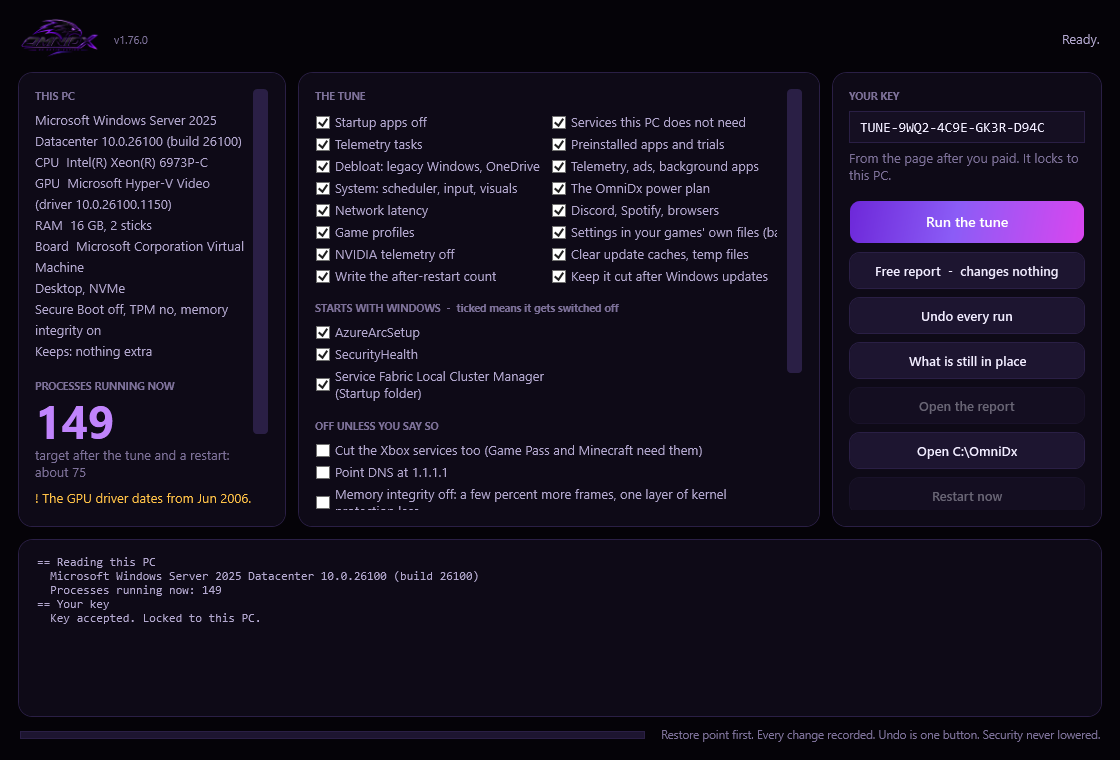
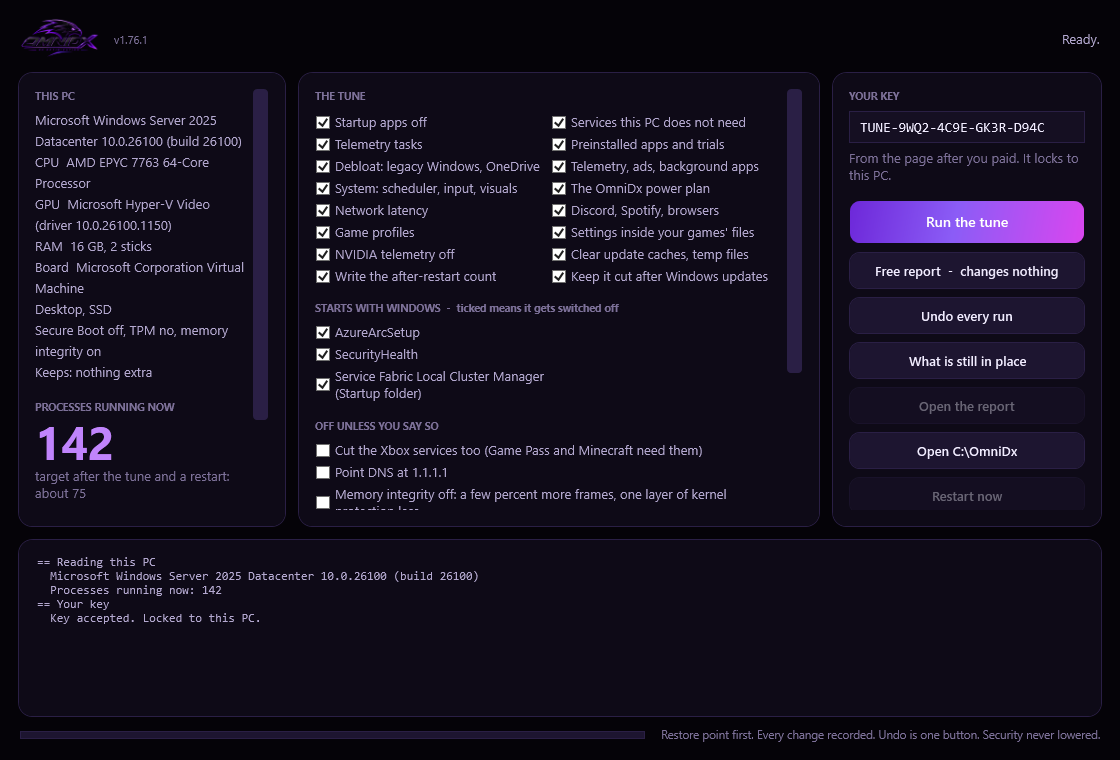
Windows check: the app window, the numbers, the log, and the script this run verified

Changed region(s): [[0.0312, 0.2118, 0.2188, 0.6658], [0.5625, 0.3026, 0.6875, 0.3329], [0.2188, 0.5447, 0.25, 0.575]]

diff --git a/studio/assets/ci-report.html b/studio/assets/ci-report.html
@@ -1,5 +1,5 @@
 <!doctype html><html lang="en"><head><meta charset="utf-8"><meta name="viewport" content="width=device-width,initial-scale=1">
-<title>OmniDx Tune report - 2026-09-24_21-17-41</title>
+<title>OmniDx Tune report - 2026-09-24_21-27-25</title>
 <style>
 body{margin:0;background:#050308;color:#f1ecff;font:15px/1.6 -apple-system,'Segoe UI',Roboto,system-ui,sans-serif}
 main{max-width:860px;margin:0 auto;padding:36px 20px 80px}
@@ -17,26 +17,24 @@ details{margin:10px 0;background:#0e0a17;border:1px solid #2a1f45;border-radius:
 details pre{font:12.5px/1.5 ui-monospace,Consolas,monospace;color:#b3a8cf;overflow:auto;max-height:420px;margin:10px 0 4px}
 .bios ul{list-style:none;padding-left:2px}.bios li{margin:8px 0;color:#f1ecff}.bios{background:#0e0a17;border:1px solid #2a1f45;border-radius:14px;padding:6px 18px}
 </style></head><body><main>
-<h1><img src="https://omnidx.net/studio/assets/icons/icon-192.png" alt="" width="44" height="44" style="vertical-align:middle;margin-right:10px" onerror="this.remove()">OmniDx Tune <span class="muted" style="font-size:16px">v1.76.0</span></h1>
-<p class="sub">Thursday, September 24, 2026 9:19 PM &middot; Intel(R) Xeon(R) 6973P-C &middot; Microsoft Hyper-V Video &middot; 16 GB &middot; Microsoft Corporation Virtual Machine</p>
-<div class="big"><div><b>150</b><span>processes before</span></div><div><b>141</b><span>now, before a restart</span></div><div><b>~75</b><span>target for this PC after a restart</span></div></div>
+<h1><img src="https://omnidx.net/studio/assets/icons/icon-192.png" alt="" width="44" height="44" style="vertical-align:middle;margin-right:10px" onerror="this.remove()">OmniDx Tune <span class="muted" style="font-size:16px">v1.76.1</span></h1>
+<p class="sub">Thursday, September 24, 2026 9:28 PM &middot; AMD EPYC 7763 64-Core Processor &middot; Microsoft Hyper-V Video &middot; 16 GB &middot; Microsoft Corporation Virtual Machine</p>
+<div class="big"><div><b>143</b><span>processes before</span></div><div><b>138</b><span>now, before a restart</span></div><div><b>~75</b><span>target for this PC after a restart</span></div></div>
 <p class='muted'>The card, for posting (the same numbers, on one picture): <code>ci-card.png</code></p><img src='ci-card.png' alt='Before and after, on a card' style='max-width:340px;width:100%;border-radius:14px;border:1px solid #2a1f45'>
 <p class="muted">Many of the "now" processes are only waiting to be stopped. The number after a restart is the one that counts; <code>C:\OmniDx\after-restart.txt</code> gets it at your next sign-in. Kept cut: a task at each sign-in puts back what a Windows update turns on; undo removes it.</p>
 <h2>Next steps</h2><ol><li>Restart. The services told to stop are still unwinding until you do, and the after-restart count lands in C:\OmniDx\after-restart.txt at your next sign-in, with the boot time of that start next to the one from before the tune.</li><li>BIOS: items 1 to 3 (memory profile, Re-Size BAR, CSM). Ten minutes, and the memory profile alone is the biggest free gain any PC has.</li><li>GPU control panel: low latency mode, power management and V-Sync, from the list below. Two minutes.</li><li>Launchers and overlays: the list below names the one or two settings in each that matter; the overlays are the usual cause of a stutter that &quot;came from nowhere&quot;.</li><li>Any time: $env:OMNIDX_MODE=&#39;status&#39;; irm omnidx.net/go.ps1 | iex shows what is still in place; undo is one line, and it is in this report.</li></ol>
-<h2>Before and after</h2><table><tr><th></th><th>Before</th><th>Now</th></tr><tr><td>Processes</td><td>150</td><td>141</td></tr><tr><td>Threads</td><td>1448</td><td>1359</td></tr><tr><td>Handles</td><td>50754</td><td>47949</td></tr><tr><td>Memory in use</td><td>3003 MB</td><td>3137 MB</td></tr><tr><td>Idle CPU</td><td>0.6%</td><td>1.3%</td></tr><tr><td>DPC time</td><td>0%</td><td>0%</td></tr></table>
-<h2>Gone, by name</h2><p class='muted'>Running before, not running now: rundll32, spoolsv, VSSVC</p>
-<details><summary>Every process, before (59 names)</summary><pre>svchost                                  x79     1,221 MB
+<h2>Before and after</h2><table><tr><th></th><th>Before</th><th>Now</th></tr><tr><td>Processes</td><td>143</td><td>138</td></tr><tr><td>Threads</td><td>1424</td><td>1483</td></tr><tr><td>Handles</td><td>49216</td><td>47532</td></tr><tr><td>Memory in use</td><td>2903 MB</td><td>3155 MB</td></tr><tr><td>Idle CPU</td><td>1.1%</td><td>2.4%</td></tr><tr><td>DPC time</td><td>0%</td><td>0.2%</td></tr></table>
+<h2>Gone, by name</h2><p class='muted'>Running before, not running now: spoolsv</p>
+<details><summary>Every process, before (54 names)</summary><pre>svchost                                  x78     1,188 MB
 conhost                                  x4         34 MB
-notepad                                  x3         85 MB
-taskhostw                                x3         95 MB
-WmiPrvSE                                 x3         68 MB
-backgroundTaskHost                       x2         31 MB
+notepad                                  x3         88 MB
+taskhostw                                x3         93 MB
+WmiPrvSE                                 x3         72 MB
 csrss                                    x2         14 MB
 fontdrvhost                              x2         11 MB
 SMSvcHost                                x2         50 MB
 AzureArcSysTray                          x1         20 MB
 ctfmon                                   x1         31 MB
-DefenderSessionHelper                    x1          6 MB
 dockerd                                  x1         46 MB
 dwm                                      x1         78 MB
 explorer                                 x1        159 MB
@@ -44,34 +42,87 @@ hosted-compute-agent                     x1         17 MB
 Idle                                     x1          0 MB
 LsaIso                                   x1          4 MB
 lsass                                    x1         31 MB
-MpDefenderCoreService                    x1         29 MB
+MpDefenderCoreService                    x1         30 MB
 mqsvc                                    x1         19 MB
 msdtc                                    x1         14 MB
-MsMpEng                                  x1        174 MB
-node                                     x1         41 MB
+MsMpEng                                  x1         77 MB
+node                                     x1         40 MB
 OpenConsole                              x1         14 MB
-powershell                               x1        241 MB
-provjobd.exe4278505647                   x1         20 MB
-Registry                                 x1         26 MB
-rundll32                                 x1         10 MB
-Runner.Listener                          x1         54 MB
-Runner.Worker                            x1        140 MB
-RuntimeBroker                            x1         48 MB
-SearchHost                               x1        110 MB
+powershell                               x1        163 MB
+provjobd.exe155265105                    x1         19 MB
+Registry                                 x1         50 MB
+Runner.Listener                          x1         71 MB
+Runner.Worker                            x1        104 MB
+RuntimeBroker                            x1         47 MB
+SearchHost                               x1        109 MB
 Secure System                            x1         52 MB
-SecurityHealthService                    x1         28 MB
+SecurityHealthService                    x1         12 MB
 ServiceFabricLocalClusterManager         x1         36 MB
 services                                 x1         12 MB
 ShellHost                                x1         42 MB
-sihost                                   x1         43 MB
-smartscreen                              x1         13 MB
+sihost                                   x1         42 MB
 smss                                     x1          2 MB
 spoolsv                                  x1         22 MB
 sqlwriter                                x1         11 MB
 sshd                                     x1          9 MB
 StartMenuExperienceHost                  x1        130 MB
 System                                   x1          0 MB
-SystemPropertiesPerformance              x1         14 MB
+TiWorker                                 x1         33 MB
+TrustedInstaller                         x1         10 MB
+UserOOBEBroker                           x1         11 MB
+vmcompute                                x1         11 MB
+vmms                                     x1         34 MB
+WaAppAgent                               x1         86 MB
+WaSecAgentProv                           x1          5 MB
+WindowsAzureGuestAgent                   x1         70 MB
+WindowsTerminal                          x1         85 MB
+wininit                                  x1          9 MB
+winlogon                                 x1         13 MB
+wslservice                               x1         29 MB</pre></details><details><summary>Every process, after (56 names)</summary><pre>svchost                                  x71     1,055 MB
+conhost                                  x4         34 MB
+notepad                                  x3         86 MB
+taskhostw                                x3         92 MB
+WmiPrvSE                                 x3         79 MB
+csrss                                    x2         14 MB
+fontdrvhost                              x2         11 MB
+SMSvcHost                                x2         50 MB
+AzureArcSysTray                          x1         20 MB
+ctfmon                                   x1         31 MB
+dllhost                                  x1         13 MB
+dockerd                                  x1         46 MB
+dwm                                      x1         78 MB
+explorer                                 x1        159 MB
+hosted-compute-agent                     x1         16 MB
+Idle                                     x1          0 MB
+LsaIso                                   x1          4 MB
+lsass                                    x1         31 MB
+MpDefenderCoreService                    x1         30 MB
+mqsvc                                    x1         19 MB
+msdtc                                    x1         14 MB
+MsMpEng                                  x1         78 MB
+node                                     x1         39 MB
+OpenConsole                              x1         14 MB
+powershell                               x1        216 MB
+provjobd.exe155265105                    x1         21 MB
+Registry                                 x1         66 MB
+Runner.Listener                          x1         58 MB
+Runner.Worker                            x1         94 MB
+RuntimeBroker                            x1         47 MB
+SearchHost                               x1        109 MB
+Secure System                            x1         52 MB
+SecurityHealthService                    x1         21 MB
+ServiceFabricLocalClusterManager         x1         36 MB
+services                                 x1         11 MB
+ShellHost                                x1         42 MB
+sihost                                   x1         42 MB
+smartscreen                              x1         13 MB
+smss                                     x1          2 MB
+sqlwriter                                x1         11 MB
+sshd                                     x1          9 MB
+StartMenuExperienceHost                  x1        131 MB
+System                                   x1          0 MB
+TiWorker                                 x1         42 MB
+TrustedInstaller                         x1         10 MB
 UserOOBEBroker                           x1         11 MB
 vmcompute                                x1         11 MB
 vmms                                     x1         34 MB
@@ -82,76 +133,17 @@ WindowsAzureGuestAgent                   x1         70 MB
 WindowsTerminal                          x1         85 MB
 wininit                                  x1          9 MB
 winlogon                                 x1         13 MB
-wslservice                               x1         27 MB
-WUDFHost                                 x1         12 MB</pre></details><details><summary>Every process, after (59 names)</summary><pre>svchost                                  x70     1,060 MB
-conhost                                  x4         34 MB
-notepad                                  x3         47 MB
-taskhostw                                x3         95 MB
-WmiPrvSE                                 x3         70 MB
-backgroundTaskHost                       x2         31 MB
-csrss                                    x2         14 MB
-fontdrvhost                              x2         11 MB
-SMSvcHost                                x2         50 MB
-AzureArcSysTray                          x1         20 MB
-ctfmon                                   x1         31 MB
-DefenderSessionHelper                    x1          6 MB
-dllhost                                  x1         13 MB
-dockerd                                  x1         46 MB
-dwm                                      x1         78 MB
-explorer                                 x1        159 MB
-hosted-compute-agent                     x1         16 MB
-Idle                                     x1          0 MB
-LsaIso                                   x1          4 MB
-lsass                                    x1         31 MB
-MpDefenderCoreService                    x1         29 MB
-mqsvc                                    x1         19 MB
-msdtc                                    x1         14 MB
-MsMpEng                                  x1         97 MB
-node                                     x1         38 MB
-OpenConsole                              x1         14 MB
-powershell                               x1        271 MB
-provjobd.exe4278505647                   x1         20 MB
-Registry                                 x1        106 MB
-Runner.Listener                          x1         33 MB
-Runner.Worker                            x1         91 MB
-RuntimeBroker                            x1         47 MB
-SearchHost                               x1        110 MB
-Secure System                            x1         52 MB
-SecurityHealthService                    x1         28 MB
-ServiceFabricLocalClusterManager         x1         36 MB
-services                                 x1         12 MB
-ShellHost                                x1         42 MB
-sihost                                   x1         43 MB
-smartscreen                              x1         13 MB
-smss                                     x1          2 MB
-sqlwriter                                x1         11 MB
-sshd                                     x1          9 MB
-StartMenuExperienceHost                  x1        131 MB
-System                                   x1          0 MB
-SystemPropertiesPerformance              x1         14 MB
-TiWorker                                 x1         39 MB
-TrustedInstaller                         x1         10 MB
-UserOOBEBroker                           x1         11 MB
-vmcompute                                x1         11 MB
-vmms                                     x1         34 MB
-WaAppAgent                               x1         87 MB
-WaSecAgentProv                           x1          5 MB
-WindowsAzureGuestAgent                   x1         70 MB
-WindowsTerminal                          x1         85 MB
-wininit                                  x1          9 MB
-winlogon                                 x1         13 MB
-wslservice                               x1         27 MB
-WUDFHost                                 x1         12 MB</pre></details>
+wslservice                               x1         29 MB</pre></details>
 <h2>Kept, and why</h2><ul><li>Defender, the firewall, Windows Update, audio, networking: always</li><li>Themes: Windows 10 falls back to the classic look without it</li><li>vmicguestinterface: this is a virtual machine</li><li>vmicheartbeat: this is a virtual machine</li><li>vmickvpexchange: this is a virtual machine</li><li>vmicrdv: this is a virtual machine</li><li>vmicshutdown: this is a virtual machine</li><li>vmictimesync: this is a virtual machine</li><li>vmicvmsession: this is a virtual machine</li><li>vmicvss: this is a virtual machine</li><li>XblAuthManager: Game Pass, the Xbox app or Minecraft is installed</li></ul>
 <h2>Warnings (3)</h2><div class="warn"><ul><li>The GPU driver dates from Jun 2006. A current driver is worth more than most tweaks.</li><li>This looks like a virtual machine. The tune will run, but the numbers mean little here.</li><li>Could not make a restore point (This functionality is not supported on this operating system.). The undo script still records everything.</li></ul></div>
-<h2>BIOS checklist for Microsoft Corporation Virtual Machine</h2><div class="bios"><ul><li>How to get in: restart, then press Del or F2 while the logo shows.</li><li>Where things are: the Advanced / Overclocking pages for memory, the PCI or Chipset page for Above 4G / Re-Size BAR, the Boot page for CSM, the Security page for TPM and Secure Boot.</li><li>1. Memory profile: enable XMP. Your RAM is running at the slow default until you do; this is the single biggest free gain on any PC. Pick the profile matching the speed printed on the sticks.</li><li>2. Re-Size BAR / Smart Access Memory: set Above 4G Decoding = Enabled, then Re-Size BAR Support = Auto/Enabled. Needs CSM off (next line). Worth 5-15% in many games on RTX 30/40/50 and RX 6000+.</li><li>3. CSM (Compatibility Support Module): Disabled. You already boot UEFI, so nothing depends on it, and Re-Size BAR needs it off.</li><li>4. Secure Boot: Enabled. Windows 11 and Vanguard expect it; on 10 it costs nothing. Set OS Type / Secure Boot Mode to Windows UEFI if asked.</li><li>5. TPM: not detected. Enable AMD fTPM (AMD) or Intel PTT (Intel) under Security / Trusted Computing. VALORANT on Windows 11 will not run without it.</li><li>6. Intel: leave MultiCore Enhancement at Auto; set the long and short power limits (PL1/PL2) to the chip&#39;s rated maximum if the board runs them lower. Do not touch voltages.</li><li>7. Global C-states / package C-states: Auto is fine. Disabling them buys nothing measurable in games and raises idle heat.</li><li>8. Fast Boot: Enabled. Full Screen Logo / Boot Logo: Disabled (a second off every boot).</li><li>9. Fan curves: set the CPU fan to reach 100% by 80 C and the case fans to a steady ramp. Sustained boost needs airflow more than anything.</li><li>10. Onboard devices you do not use: serial port, Wi-Fi/Bluetooth if wired, onboard audio if you use USB audio, RGB controllers. Each one removed is an interrupt source gone.</li><li>11. HPET: leave at default. The &#39;disable HPET&#39; tweak is from 2013 and hurts more than it helps on modern Windows.</li><li>12. Virtualisation (SVM / VT-x): leave on if you use WSL, Docker, an emulator, or play VALORANT or on FACEIT (their anti-cheat needs it, with IOMMU); otherwise off saves a little scheduling overhead.</li><li>After saving: Windows will boot normally. If it does not (rare, usually CSM), go back in and re-enable the last thing you changed.</li><li>Do not update the BIOS unless the vendor&#39;s notes mention a fix for your exact problem; a failed flash is the one thing here that cannot be undone from Windows.</li></ul></div>
+<h2>BIOS checklist for Microsoft Corporation Virtual Machine</h2><div class="bios"><ul><li>How to get in: restart, then press Del or F2 while the logo shows.</li><li>Where things are: the Advanced / Overclocking pages for memory, the PCI or Chipset page for Above 4G / Re-Size BAR, the Boot page for CSM, the Security page for TPM and Secure Boot.</li><li>1. Memory profile: enable EXPO (or DOCP / A-XMP on older boards). Your RAM is running at the slow default until you do; this is the single biggest free gain on any PC. Pick the profile matching the speed printed on the sticks.</li><li>2. Re-Size BAR / Smart Access Memory: set Above 4G Decoding = Enabled, then Re-Size BAR Support = Auto/Enabled. Needs CSM off (next line). Worth 5-15% in many games on RTX 30/40/50 and RX 6000+.</li><li>3. CSM (Compatibility Support Module): Disabled. You already boot UEFI, so nothing depends on it, and Re-Size BAR needs it off.</li><li>4. Secure Boot: Enabled. Windows 11 and Vanguard expect it; on 10 it costs nothing. Set OS Type / Secure Boot Mode to Windows UEFI if asked.</li><li>5. TPM: not detected. Enable AMD fTPM (AMD) or Intel PTT (Intel) under Security / Trusted Computing. VALORANT on Windows 11 will not run without it.</li><li>6. Precision Boost Overdrive: Enabled (or Advanced with the Curve Optimizer at a modest negative offset like -15 all-core if you know your cooler). Never a positive voltage offset.</li><li>7. Global C-states / package C-states: Auto is fine. Disabling them buys nothing measurable in games and raises idle heat.</li><li>8. Fast Boot: Enabled. Full Screen Logo / Boot Logo: Disabled (a second off every boot).</li><li>9. Fan curves: set the CPU fan to reach 100% by 80 C and the case fans to a steady ramp. Sustained boost needs airflow more than anything.</li><li>10. Onboard devices you do not use: serial port, Wi-Fi/Bluetooth if wired, onboard audio if you use USB audio, RGB controllers. Each one removed is an interrupt source gone.</li><li>11. HPET: leave at default. The &#39;disable HPET&#39; tweak is from 2013 and hurts more than it helps on modern Windows.</li><li>12. Virtualisation (SVM / VT-x): leave on if you use WSL, Docker, an emulator, or play VALORANT or on FACEIT (their anti-cheat needs it, with IOMMU); otherwise off saves a little scheduling overhead.</li><li>After saving: Windows will boot normally. If it does not (rare, usually CSM), go back in and re-enable the last thing you changed.</li><li>Do not update the BIOS unless the vendor&#39;s notes mention a fix for your exact problem; a failed flash is the one thing here that cannot be undone from Windows.</li></ul></div>
 <h2>GPU control panel</h2><ul><li>GPU not identified; use the vendor control panel to set low-latency mode on, power management to maximum performance and V-Sync off.</li></ul>
-<h2>Undervolt, not overclock, and a frame cap</h2><ul><li>GPU: the vendor tool has a frame limiter; set it three below the refresh rate with adaptive sync on.</li><li>CPU (Intel): on 13th and 14th gen, install the latest BIOS first (the microcode that stops the degradation), and leave the voltage alone unless the board exposes an offset; on a K chip a small negative offset is the same idea as Ryzen&#39;s Curve Optimizer.</li><li>Never an overclock: it is more heat and more voltage for frames you cannot see, and it is the first thing a crash report points at.</li></ul>
+<h2>Undervolt, not overclock, and a frame cap</h2><ul><li>GPU: the vendor tool has a frame limiter; set it three below the refresh rate with adaptive sync on.</li><li>CPU undervolt (Ryzen): BIOS &gt; PBO &gt; Curve Optimizer &gt; all cores, negative 15 to start (negative 30 on most 7000 and 9000 chips), then an hour of a game and a stress test; one step back on any crash or reboot. Lower temperature, higher sustained boost, nothing else changes.</li><li>Never an overclock: it is more heat and more voltage for frames you cannot see, and it is the first thing a crash report points at.</li></ul>
 <h2>Launchers, overlays and helper apps</h2><ul><li>Xbox app: Settings &gt; General &gt; &quot;Auto-start&quot; off (the entry the tune switched off), &quot;Show notifications&quot; off. Game Pass games install under C:\XboxGames and are already in the CPU-priority list where the game is listed.</li></ul>
 <h2>Left by other tools</h2><p class="muted">The tune changes none of these; it names them, with the way back.</p><ul><li>Nothing found: no other tool has left Defender, Windows Update, SmartScreen, User Account Control or the CPU mitigations switched off on this PC.</li></ul>
 <h2>Per game</h2><p class='muted'>Not found on this PC (the same profile applies if you install them): Fortnite, VALORANT, Counter-Strike 2, Marvel Rivals, Apex Legends, Call of Duty (Warzone / MW), Overwatch 2, Rainbow Six Siege, Rocket League, Minecraft, Roblox, League of Legends, GTA V / Online, Rust, Escape from Tarkov, PUBG, The Finals, Dota 2, Battlefield 6, Deadlock, Delta Force, ARC Raiders, Helldivers 2, Warframe, Destiny 2, Halo Infinite, Dead by Daylight, Hunt: Showdown 1896, War Thunder, World of Warcraft, Squad, Battlefield 2042, EA Sports FC 26, NBA 2K26, Palworld, Path of Exile 2, Diablo IV, Monster Hunter Wilds, Elden Ring / Nightreign, Cyberpunk 2077, Baldur&#39;s Gate 3, Star Citizen, DayZ, Arma Reforger, Hell Let Loose, Genshin Impact, Ready or Not, Final Fantasy XIV, STALKER 2, Sea of Thieves</p>
-<h2>What was done</h2><h4>Safety first</h4><div class='did'>Registry and service list backed up to C:\OmniDx\backup\2026-09-24_21-17-41</div><div class='did'>undo.ps1 written to C:\OmniDx\undo</div><h4>Startup apps</h4><div class='did'>off: AzureArcSetup</div><div class='did'>off: Service Fabric Local Cluster Manager (Startup folder)</div><h4>Services</h4><div class='did'>dmwappushservice -&gt; disabled  (telemetry push)</div><div class='did'>WerSvc -&gt; disabled  (error reporting)</div><div class='did'>wercplsupport -&gt; disabled  (error reporting)</div><div class='did'>PcaSvc -&gt; disabled  (compatibility assistant)</div><div class='did'>lfsvc -&gt; disabled  (geolocation)</div><div class='did'>RemoteRegistry -&gt; disabled  (remote registry)</div><div class='did'>WMPNetworkSvc -&gt; disabled  (media sharing)</div><div class='did'>TrkWks -&gt; disabled  (link tracking)</div><div class='did'>WalletService -&gt; disabled  (wallet)</div><div class='did'>wisvc -&gt; disabled  (insider program)</div><div class='did'>SEMgrSvc -&gt; disabled  (payments and NFC)</div><div class='did'>TapiSrv -&gt; disabled  (telephony)</div><div class='did'>SharedAccess -&gt; disabled  (internet connection sharing)</div><div class='did'>edgeupdate -&gt; manual  (Edge updater (runs on demand))</div><div class='did'>WbioSrvc -&gt; disabled  (biometrics)</div><div class='did'>SysMain already disabled; left that way</div><div class='did'>WSearch already disabled; left that way</div><div class='did'>Spooler -&gt; disabled  (print spooler)</div><div class='did'>bthserv -&gt; disabled  (bluetooth)</div><div class='did'>WlanSvc -&gt; disabled  (wi-fi)</div><div class='did'>CDPSvc -&gt; manual  (connected devices)</div><div class='did'>CDPUserSvc already disabled; left that way</div><div class='did'>OneSyncSvc already disabled; left that way</div><div class='did'>PimIndexMaintenanceSvc already disabled; left that way</div><div class='did'>UnistoreSvc already disabled; left that way</div><div class='did'>UserDataSvc already disabled; left that way</div><div class='did'>SSDPSRV already disabled; left that way</div><div class='did'>upnphost already disabled; left that way</div><div class='did'>DPS -&gt; manual  (diagnostic policy)</div><div class='did'>SCardSvr -&gt; disabled  (smart card)</div><div class='did'>ScDeviceEnum -&gt; disabled  (smart card)</div><div class='did'>CertPropSvc -&gt; disabled  (smart card)</div><div class='did'>iphlpsvc -&gt; manual  (ipv6 tunnels)</div><div class='did'>cbdhsvc -&gt; manual  (clipboard history)</div><div class='did'>WpnService -&gt; manual  (push notifications)</div><div class='did'>WpnUserService -&gt; manual  (push notifications)</div><div class='did'>SNMPTRAP -&gt; disabled  (SNMP traps)</div><div class='did'>workfolderssvc -&gt; disabled  (Work Folders sync)</div><h4>Scheduled tasks</h4><div class='did'>PcaPatchDbTask</div><div class='did'>CreateObjectTask</div><div class='did'>Device</div><div class='did'>Device User</div><div class='did'>LoginCheck</div><div class='did'>WindowsActionDialog</div><div class='did'>OobeDiscovery</div><div class='did'>Diagnostics</div><div class='did'>UsageDataFlushing</div><div class='did'>UsageDataReporting</div><div class='did'>Registration</div><div class='did'>IndexerAutomaticMaintenance</div><div class='did'>Storage Tiers Management Initialization</div><div class='did'>UPnPHostConfig</div><div class='did'>ResolutionHost</div><div class='did'>UpdateLibrary</div><div class='did'>Work Folders Logon Synchronization</div><div class='did'>Work Folders Maintenance Work</div><h4>Preinstalled apps</h4><div class='did'>Microsoft.WindowsFeedbackHub</div><h4>Debloat</h4><div class='did'>removed Steps Recorder (screenshots every click, retired by Microsoft)</div><div class='did'>removed the 2009 Windows Media Player (the Store one stays)</div><div class='did'>removed Math Input Panel</div><div class='did'>removed Internet Explorer 11</div><div class='did'>off: Work Folders (corporate sync)</div><div class='did'>Edge: shopping assistant, recommendations, Spotlight, feedback prompts and reporting off</div><div class='did'>Kept gone: consumer features, suggested apps, account nags and the &#39;finish setting up&#39; screen are off by policy</div><h4>Telemetry, background activity, the shell</h4><div class='did'>Telemetry, the advertising id, activity history, suggestions, Bing in Start, Recall and Edge&#39;s reporting off; background apps off; widgets, news, Copilot and Cortana off; Game DVR off, Game Mode on; the classic right-click menu on 11</div><h4>System tuning</h4><div class='did'>NTFS last-access stamps off</div><div class='did'>NTFS allowed more memory for its cache</div><div class='did'>Defender&#39;s scheduled scans already capped at 5% of the CPU, lower than the tune&#39;s 25%: left as it is</div><h4>The OmniDx power plan</h4><div class='did'>2 plan setting(s) this PC does not have were skipped.</div><div class='did'>OmniDx plan created and active: CPU 100/100, boost aggressive, energy preference on performance, no core parking, no throttle states on a desktop, PCIe, USB and Wi-Fi power saving off, no sleep on mains.</div><h4>Network</h4><div class='did'>TCP: autotuning normal, ECN and timestamps off, receive-side scaling on, segment coalescing off, CTCP.</div><div class='did'>Ethernet 4: Nagle off, power saving off</div><div class='did'>Ethernet 3: Nagle off, power saving off</div><h4>Discord, Spotify, browsers</h4><div class='did'>Chrome: no background mode, hardware acceleration on</div><div class='did'>Edge: no startup boost, no background mode, hardware acceleration on</div><h4>Game profiles</h4><div class='did'>No listed game found on the usual drives; the CPU-priority profiles are in place for when one is installed.</div><h4>Game settings files</h4><div class='did'>Fortnite: V-Sync off, motion blur off, shadows off, post-processing low</div><div class='did'>Apex Legends: V-Sync off, sun shadows off, spot shadows off</div><div class='did'>Rocket League: V-Sync off, motion blur off, dynamic shadows off, depth of field off</div><div class='did'>Minecraft (Java): V-Sync off</div><h4>Cleanup</h4><div class='did'>Temp files, the Windows Update download cache and the peer-to-peer update cache cleared: about 323 MB back.</div><h4>Keeping it cut</h4><div class='did'>Task &#39;OmniDx keep&#39; runs three minutes after sign-in, puts back whatever an update turned on, notes that start&#39;s boot time and writes card-after-restart.png with that start&#39;s count. Log: C:\OmniDx\keep-log.txt. Undo removes it.</div>
-<h2>Undo</h2><p>Administrator PowerShell: <code>powershell -ExecutionPolicy Bypass -File C:\OmniDx\undo\undo.ps1</code><br>No restore point was made on this run (see the warnings); the undo script is the way back.<br>Changes recorded in <code>C:\OmniDx\undo\changes-2026-09-24_21-17-41.json</code>.</p>
+<h2>What was done</h2><h4>Safety first</h4><div class='did'>Registry and service list backed up to C:\OmniDx\backup\2026-09-24_21-27-25</div><div class='did'>undo.ps1 written to C:\OmniDx\undo</div><h4>Startup apps</h4><div class='did'>off: AzureArcSetup</div><div class='did'>off: Service Fabric Local Cluster Manager (Startup folder)</div><h4>Services</h4><div class='did'>dmwappushservice -&gt; disabled  (telemetry push)</div><div class='did'>WerSvc -&gt; disabled  (error reporting)</div><div class='did'>wercplsupport -&gt; disabled  (error reporting)</div><div class='did'>PcaSvc -&gt; disabled  (compatibility assistant)</div><div class='did'>lfsvc -&gt; disabled  (geolocation)</div><div class='did'>RemoteRegistry -&gt; disabled  (remote registry)</div><div class='did'>WMPNetworkSvc -&gt; disabled  (media sharing)</div><div class='did'>TrkWks -&gt; disabled  (link tracking)</div><div class='did'>WalletService -&gt; disabled  (wallet)</div><div class='did'>wisvc -&gt; disabled  (insider program)</div><div class='did'>SEMgrSvc -&gt; disabled  (payments and NFC)</div><div class='did'>TapiSrv -&gt; disabled  (telephony)</div><div class='did'>SharedAccess -&gt; disabled  (internet connection sharing)</div><div class='did'>edgeupdate -&gt; manual  (Edge updater (runs on demand))</div><div class='did'>WbioSrvc -&gt; disabled  (biometrics)</div><div class='did'>SysMain already disabled; left that way</div><div class='did'>WSearch already disabled; left that way</div><div class='did'>Spooler -&gt; disabled  (print spooler)</div><div class='did'>bthserv -&gt; disabled  (bluetooth)</div><div class='did'>WlanSvc -&gt; disabled  (wi-fi)</div><div class='did'>CDPSvc -&gt; manual  (connected devices)</div><div class='did'>CDPUserSvc already disabled; left that way</div><div class='did'>OneSyncSvc already disabled; left that way</div><div class='did'>PimIndexMaintenanceSvc already disabled; left that way</div><div class='did'>UnistoreSvc already disabled; left that way</div><div class='did'>UserDataSvc already disabled; left that way</div><div class='did'>SSDPSRV already disabled; left that way</div><div class='did'>upnphost already disabled; left that way</div><div class='did'>DPS -&gt; manual  (diagnostic policy)</div><div class='did'>SCardSvr -&gt; disabled  (smart card)</div><div class='did'>ScDeviceEnum -&gt; disabled  (smart card)</div><div class='did'>CertPropSvc -&gt; disabled  (smart card)</div><div class='did'>iphlpsvc -&gt; manual  (ipv6 tunnels)</div><div class='did'>cbdhsvc -&gt; manual  (clipboard history)</div><div class='did'>WpnService -&gt; manual  (push notifications)</div><div class='did'>WpnUserService -&gt; manual  (push notifications)</div><div class='did'>SNMPTRAP -&gt; disabled  (SNMP traps)</div><div class='did'>workfolderssvc -&gt; disabled  (Work Folders sync)</div><h4>Scheduled tasks</h4><div class='did'>PcaPatchDbTask</div><div class='did'>CreateObjectTask</div><div class='did'>Device</div><div class='did'>Device User</div><div class='did'>LoginCheck</div><div class='did'>WindowsActionDialog</div><div class='did'>OobeDiscovery</div><div class='did'>Diagnostics</div><div class='did'>UsageDataFlushing</div><div class='did'>UsageDataReporting</div><div class='did'>Registration</div><div class='did'>IndexerAutomaticMaintenance</div><div class='did'>Storage Tiers Management Initialization</div><div class='did'>UPnPHostConfig</div><div class='did'>ResolutionHost</div><div class='did'>UpdateLibrary</div><div class='did'>Work Folders Logon Synchronization</div><div class='did'>Work Folders Maintenance Work</div><h4>Preinstalled apps</h4><div class='did'>Microsoft.WindowsFeedbackHub</div><h4>Debloat</h4><div class='did'>removed Steps Recorder (screenshots every click, retired by Microsoft)</div><div class='did'>removed the 2009 Windows Media Player (the Store one stays)</div><div class='did'>removed Math Input Panel</div><div class='did'>removed Internet Explorer 11</div><div class='did'>off: Work Folders (corporate sync)</div><div class='did'>Edge: shopping assistant, recommendations, Spotlight, feedback prompts and reporting off</div><div class='did'>Kept gone: consumer features, suggested apps, account nags and the &#39;finish setting up&#39; screen are off by policy</div><h4>Telemetry, background activity, the shell</h4><div class='did'>Telemetry, the advertising id, activity history, suggestions, Bing in Start, Recall and Edge&#39;s reporting off; background apps off; widgets, news, Copilot and Cortana off; Game DVR off, Game Mode on; the classic right-click menu on 11</div><h4>System tuning</h4><div class='did'>NTFS last-access stamps off</div><div class='did'>NTFS allowed more memory for its cache</div><div class='did'>Defender&#39;s scheduled scans already capped at 5% of the CPU, lower than the tune&#39;s 25%: left as it is</div><h4>The OmniDx power plan</h4><div class='did'>2 plan setting(s) this PC does not have were skipped.</div><div class='did'>OmniDx plan created and active: CPU 100/100, boost aggressive, energy preference on performance, no core parking, no throttle states on a desktop, PCIe, USB and Wi-Fi power saving off, no sleep on mains.</div><h4>Network</h4><div class='did'>TCP: autotuning normal, ECN and timestamps off, receive-side scaling on, segment coalescing off, CTCP.</div><div class='did'>Ethernet 4: Interrupt Moderation off</div><div class='did'>Ethernet 4: Nagle off, power saving off</div><div class='did'>Ethernet 3: Nagle off, power saving off</div><h4>Discord, Spotify, browsers</h4><div class='did'>Chrome: no background mode, hardware acceleration on</div><div class='did'>Edge: no startup boost, no background mode, hardware acceleration on</div><h4>Game profiles</h4><div class='did'>No listed game found on the usual drives; the CPU-priority profiles are in place for when one is installed.</div><h4>Game settings files</h4><div class='did'>Fortnite: V-Sync off, motion blur off, shadows off, post-processing low</div><div class='did'>Apex Legends: V-Sync off, sun shadows off, spot shadows off</div><div class='did'>Rocket League: V-Sync off, motion blur off, dynamic shadows off, depth of field off</div><div class='did'>Minecraft (Java): V-Sync off</div><h4>Cleanup</h4><div class='did'>Temp files, the Windows Update download cache and the peer-to-peer update cache cleared: about 376 MB back.</div><h4>Keeping it cut</h4><div class='did'>Task &#39;OmniDx keep&#39; runs three minutes after sign-in, puts back whatever an update turned on, notes that start&#39;s boot time and writes card-after-restart.png with that start&#39;s count. Log: C:\OmniDx\keep-log.txt. Undo removes it.</div>
+<h2>Undo</h2><p>Administrator PowerShell: <code>powershell -ExecutionPolicy Bypass -File C:\OmniDx\undo\undo.ps1</code><br>No restore point was made on this run (see the warnings); the undo script is the way back.<br>Changes recorded in <code>C:\OmniDx\undo\changes-2026-09-24_21-27-25.json</code>.</p>
 <h2>Status, any time</h2><p>What is still in place, what an update put back, the keep task and the after-restart count: <code>$env:OMNIDX_MODE='status'; irm omnidx.net/go.ps1 | iex</code><br><span class="muted">README.txt in C:\OmniDx says what each file there is.</span></p>
 <p class="muted" style="margin-top:40px">omnidx.net &middot; one payment, one PC, undo in one line.</p>
 </main></body></html>
